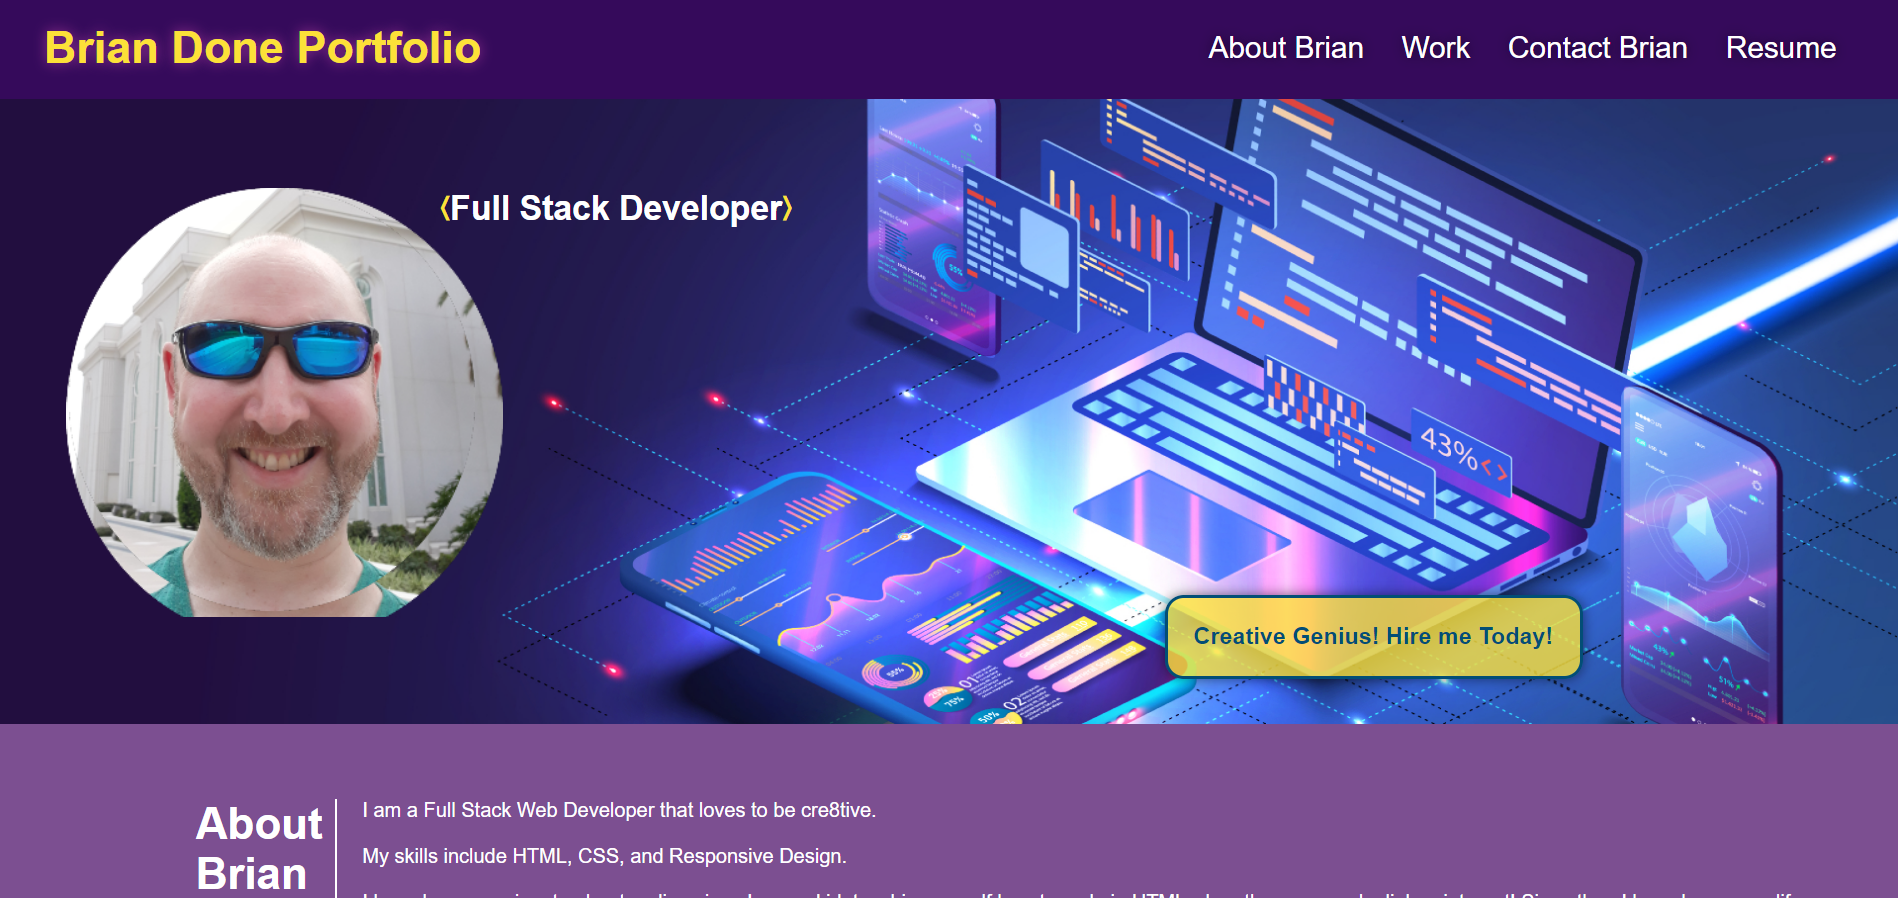
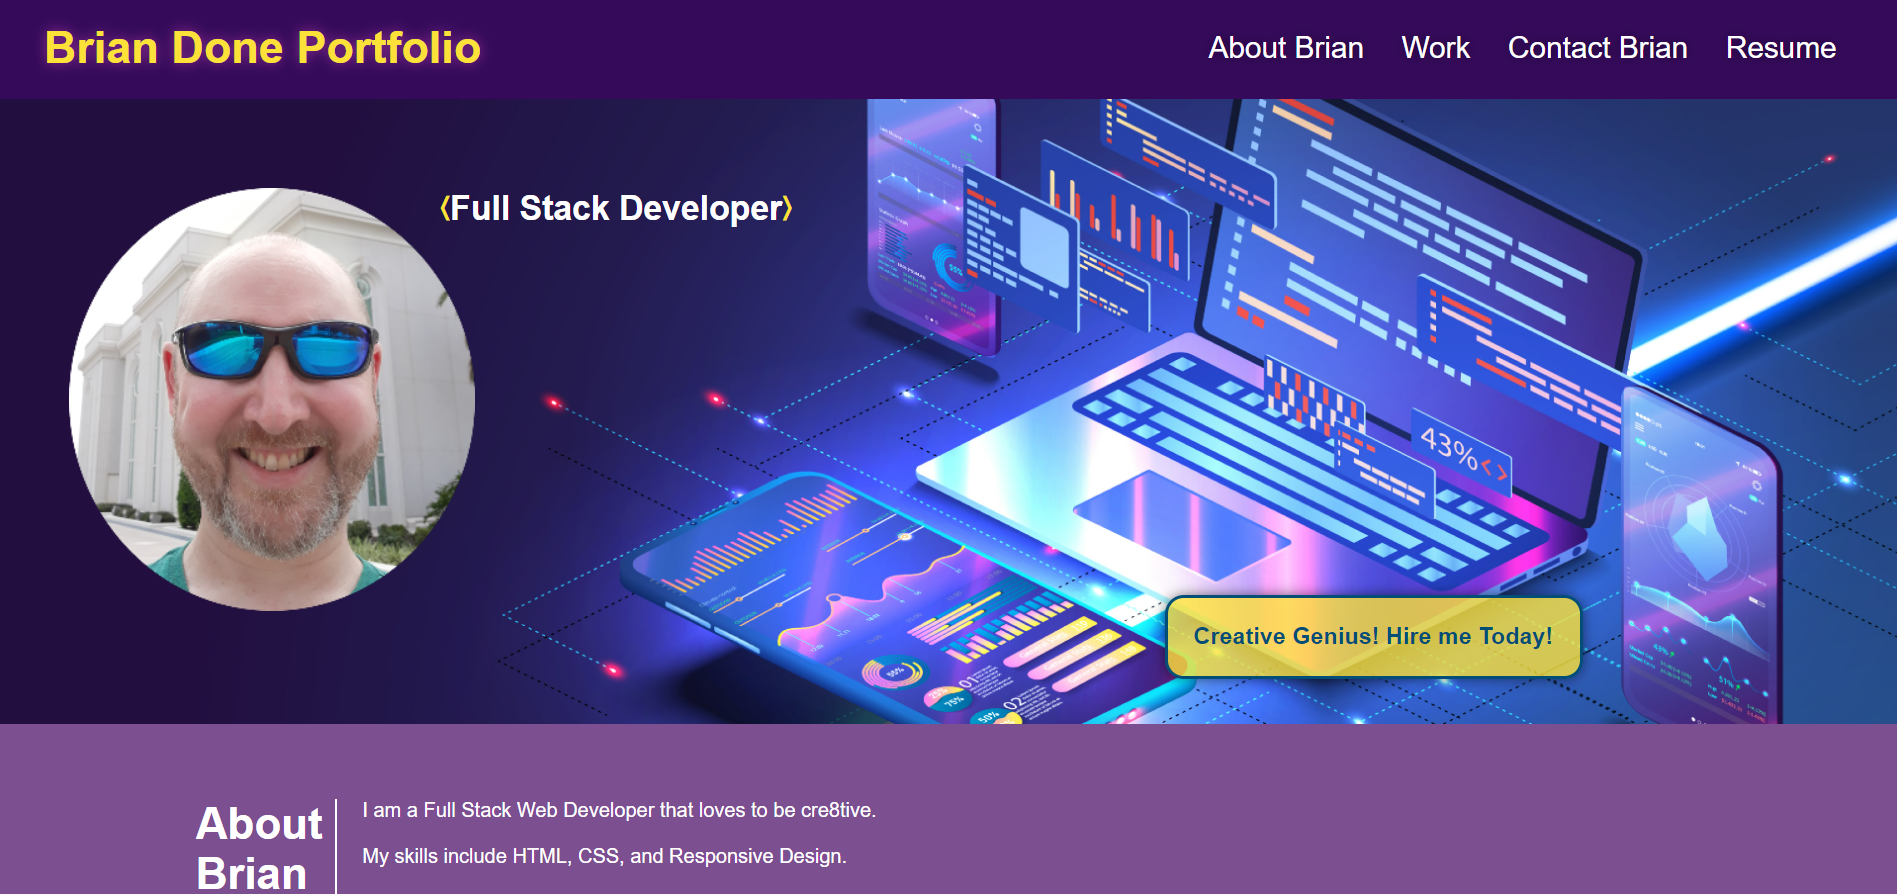
updated brian pic and screenshot

diff --git a/assets/css/style.css b/assets/css/style.css
@@ -107,8 +107,6 @@ header nav ul li a:hover {
 }
 
 .brianpic {
-    background-image: url("../images/brian.png");
-    background-size: cover;
     width: 23%;
     text-align: center;
     margin: 3.5%;
